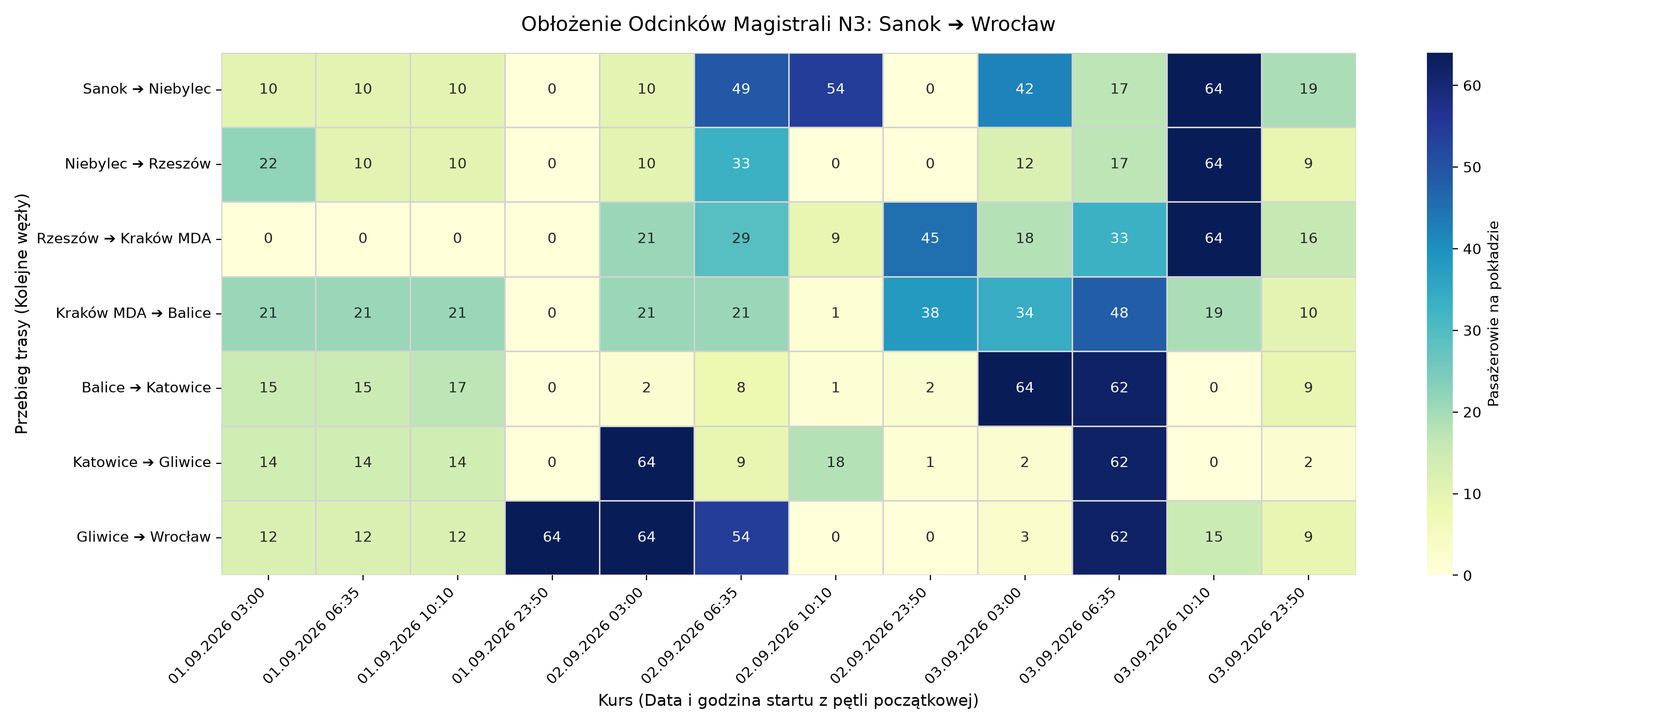
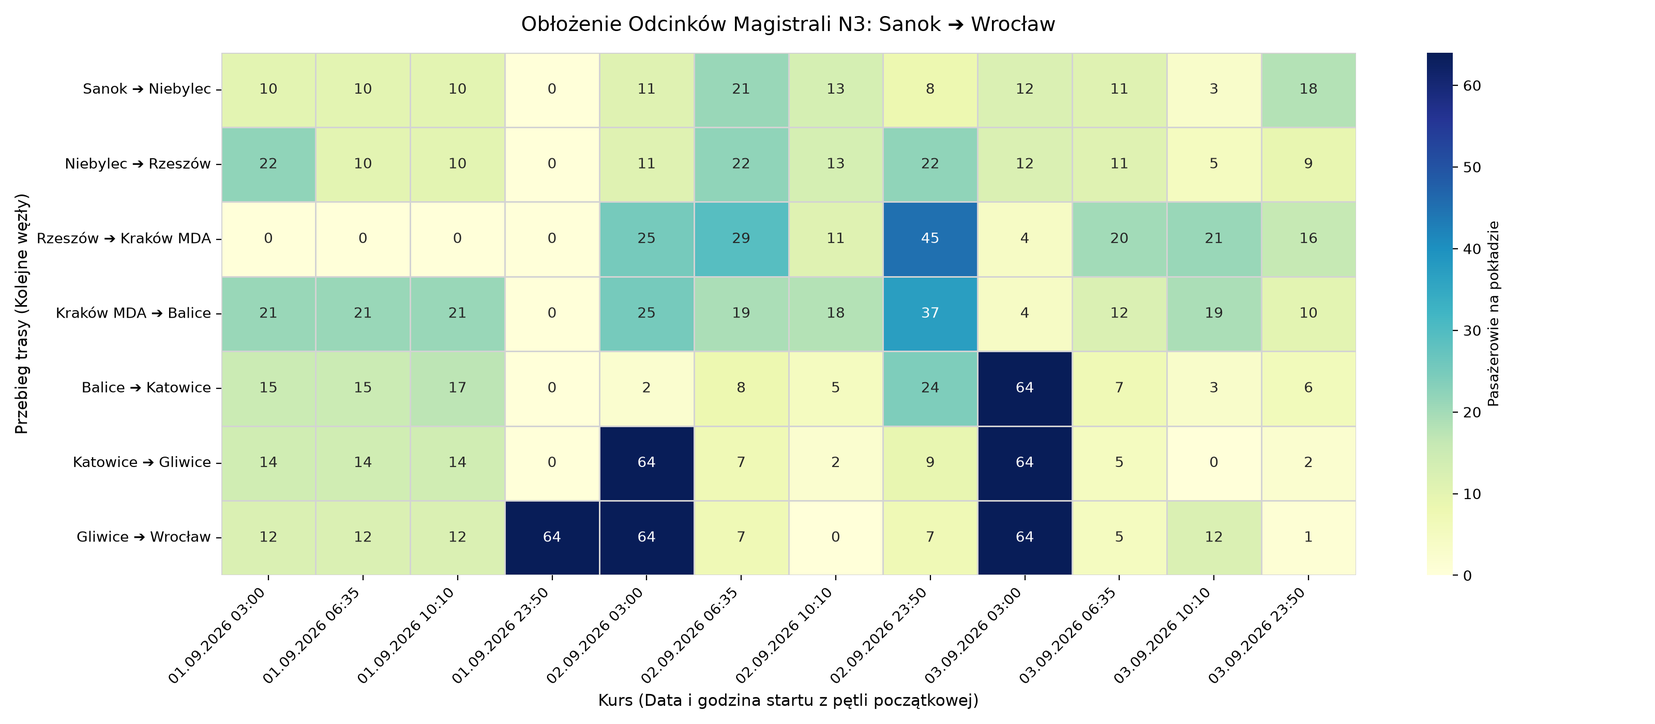
Telemetry Update: 2026-09-01 14:16:03

Changed region(s): [[0.3438, 0.0614, 0.7812, 0.7986], [0.75, 0.6757, 0.8438, 0.7986]]

diff --git a/README.md b/README.md
@@ -1,6 +1,6 @@
 # 🏛 Project Aether: N3 Transit Observatory
 
-> 🕒 **Ostatnia synchronizacja:** `01.09.2026 13:16:50`  
+> 🕒 **Ostatnia synchronizacja:** `01.09.2026 14:16:00`  
 > 📊 **Status magistrali N3 (Sanok ⇄ Wrocław)** | 8 Węzłów | 7 Odcinków Pomiarowych
 
 ## 🧭 Bezpośrednie kursy magistralne (Terminus ➔ Terminus)
@@ -8,7 +8,6 @@
 | Kierunek | Data | Odjazd | Wolne miejsca | Cena min. |
 | :--- | :--- | :---: | :---: | :---: |
 | Sanok ➔ Wrocław | 📅 **01.09.2026** | ⏰ 23:50 | `B/D` | 120.65 zł |
-| Wrocław ➔ Sanok | 📅 **01.09.2026** | ⏰ 15:35 | `B/D` | 120.65 zł |
 | Wrocław ➔ Sanok | 📅 **01.09.2026** | ⏰ 22:25 | `B/D` | 120.65 zł |
 | Sanok ➔ Wrocław | 📅 **02.09.2026** | ⏰ 03:00 | `B/D` | 120.65 zł |
 | Sanok ➔ Wrocław | 📅 **02.09.2026** | ⏰ 06:35 | `B/D` | 120.65 zł |
@@ -27,75 +26,128 @@
 | Wrocław ➔ Sanok | 📅 **03.09.2026** | ⏰ 15:35 | `B/D` | 120.65 zł |
 | Wrocław ➔ Sanok | 📅 **03.09.2026** | ⏰ 22:25 | `B/D` | 120.65 zł |
 | Sanok ➔ Wrocław | 📅 **04.09.2026** | ⏰ 03:00 | `B/D` | 120.65 zł |
+| Sanok ➔ Wrocław | 📅 **04.09.2026** | ⏰ 06:35 | `B/D` | 120.65 zł |
 
 ---
 
 ## 📈 Analityka Węzłowa: Potoki, Wymiana Pasażerska (Δ) i Estymacja Obrotów
 
-### 🚌 Sanok ➔ Wrocław: `Nocny (23:50)` | 📅 Data: **01.09.2026**
-> 💵 **Szacowany obrót kursu:** `2204.80 PLN` | 📊 **Średni Load Factor:** `14.1%`
+### 🚌 Wrocław ➔ Sanok: `Poranny (07:45)` | 📅 Data: **01.09.2026**
+> 💵 **Szacowany obrót kursu:** `1923.40 PLN` | 📊 **Średni Load Factor:** `8.3%`
 
 | Odcinek | Odjazd | Cena | Wolne | Na pokładzie | Bilans w węźle (Δ) | Obrót odcinka |
 | :--- | :---: | :---: | :---: | :---: | :---: | :---: |
-| Sanok ➔ Niebylec | ⏰ 23:50 | 0.00 zł | `B/D` | **0/65** | Start trasy | **0.00 zł** |
-| Niebylec ➔ Rzeszów | ⏰ 00:50 | 0.00 zł | `B/D` | **0/65** | ➡ 0 | **0.00 zł** |
-| Rzeszów ➔ Kraków MDA | ⏰ 01:30 | 0.00 zł | `B/D` | **0/65** | ➡ 0 | **0.00 zł** |
-| Kraków MDA ➔ Balice | ⏰ 03:35 | 0.00 zł | `B/D` | **0/65** | ➡ 0 | **0.00 zł** |
-| Balice ➔ Katowice | ⏰ 04:00 | 0.00 zł | `B/D` | **0/65** | ➡ 0 | **0.00 zł** |
-| Katowice ➔ Gliwice | ⏰ 04:55 | 0.00 zł | `B/D` | **0/65** | ➡ 0 | **0.00 zł** |
-| Gliwice ➔ Wrocław | ⏰ 05:22 | 34.45 zł | `1` | **64/65** | 📈 +64 | **2204.80 zł** |
+| Wrocław ➔ Gliwice | ⏰ 07:45 | 0.00 zł | `B/D` | **0/65** | Start trasy | **0.00 zł** |
+| Gliwice ➔ Katowice | ⏰ 09:45 | 0.00 zł | `B/D` | **0/65** | ➡ 0 | **0.00 zł** |
+| Katowice ➔ Balice | ⏰ 10:15 | 45.60 zł | `63` | **2/65** | 📈 +2 | **91.20 zł** |
+| Balice ➔ Kraków MDA | ⏰ 11:05 | 27.00 zł | `61` | **4/65** | 📈 +2 | **108.00 zł** |
+| Kraków MDA ➔ Rzeszów | ⏰ 11:45 | 42.40 zł | `32` | **33/65** | 📈 +29 | **1399.20 zł** |
+| Rzeszów ➔ Niebylec | ⏰ 13:50 | 0.00 zł | `B/D` | **0/65** | 📉 -33 | **0.00 zł** |
+| Niebylec ➔ Sanok | ⏰ 14:35 | 25.00 zł | `77` | **13/90** | 📈 +13 | **325.00 zł** |
+
+### 🚌 Wrocław ➔ Sanok: `Południowy (12:00)` | 📅 Data: **01.09.2026**
+> 💵 **Szacowany obrót kursu:** `2654.90 PLN` | 📊 **Średni Load Factor:** `15.1%`
+
+| Odcinek | Odjazd | Cena | Wolne | Na pokładzie | Bilans w węźle (Δ) | Obrót odcinka |
+| :--- | :---: | :---: | :---: | :---: | :---: | :---: |
+| Wrocław ➔ Gliwice | ⏰ 12:00 | 0.00 zł | `B/D` | **0/65** | Start trasy | **0.00 zł** |
+| Gliwice ➔ Katowice | ⏰ 14:00 | 19.95 zł | `66` | **24/90** | 📈 +24 | **478.80 zł** |
+| Katowice ➔ Balice | ⏰ 14:30 | 45.60 zł | `63` | **2/65** | 📉 -22 | **91.20 zł** |
+| Balice ➔ Kraków MDA | ⏰ 15:20 | 27.00 zł | `61` | **4/65** | 📈 +2 | **108.00 zł** |
+| Kraków MDA ➔ Rzeszów | ⏰ 16:15 | 42.40 zł | `32` | **33/65** | 📈 +29 | **1399.20 zł** |
+| Rzeszów ➔ Niebylec | ⏰ 18:40 | 13.30 zł | `71` | **19/90** | 📉 -14 | **252.70 zł** |
+| Niebylec ➔ Sanok | ⏰ 19:20 | 25.00 zł | `77` | **13/90** | 📉 -6 | **325.00 zł** |
+
+### 🚌 Wrocław ➔ Sanok: `Popołudniowy (15:35)` | 📅 Data: **01.09.2026**
+> 💵 **Szacowany obrót kursu:** `2428.15 PLN` | 📊 **Średni Load Factor:** `14.0%`
+
+| Odcinek | Odjazd | Cena | Wolne | Na pokładzie | Bilans w węźle (Δ) | Obrót odcinka |
+| :--- | :---: | :---: | :---: | :---: | :---: | :---: |
+| Wrocław ➔ Gliwice | ⏰ 15:35 | 34.45 zł | `83` | **7/90** | Start trasy | **241.15 zł** |
+| Gliwice ➔ Katowice | ⏰ 17:40 | 19.95 zł | `66` | **24/90** | 📈 +17 | **478.80 zł** |
+| Katowice ➔ Balice | ⏰ 18:15 | 45.60 zł | `63` | **2/65** | 📉 -22 | **91.20 zł** |
+| Balice ➔ Kraków MDA | ⏰ 19:05 | 27.00 zł | `31` | **34/65** | 📈 +32 | **918.00 zł** |
+| Kraków MDA ➔ Rzeszów | ⏰ 19:45 | 42.40 zł | `55` | **10/65** | 📉 -24 | **424.00 zł** |
+| Rzeszów ➔ Niebylec | ⏰ 21:55 | 0.00 zł | `B/D` | **0/65** | 📉 -10 | **0.00 zł** |
+| Niebylec ➔ Sanok | ⏰ 22:30 | 25.00 zł | `54` | **11/65** | 📈 +11 | **275.00 zł** |
+
+### 🚌 Wrocław ➔ Sanok: `Nocny (22:25)` | 📅 Data: **01.09.2026**
+> 💵 **Szacowany obrót kursu:** `2544.95 PLN` | 📊 **Średni Load Factor:** `14.3%`
+
+| Odcinek | Odjazd | Cena | Wolne | Na pokładzie | Bilans w węźle (Δ) | Obrót odcinka |
+| :--- | :---: | :---: | :---: | :---: | :---: | :---: |
+| Wrocław ➔ Gliwice | ⏰ 22:25 | 34.45 zł | `64` | **1/65** | Start trasy | **34.45 zł** |
+| Gliwice ➔ Katowice | ⏰ 00:20 | 19.95 zł | `66` | **24/90** | 📈 +23 | **478.80 zł** |
+| Katowice ➔ Balice | ⏰ 00:50 | 0.00 zł | `B/D` | **0/65** | 📉 -24 | **0.00 zł** |
+| Balice ➔ Kraków MDA | ⏰ 01:50 | 27.00 zł | `61` | **4/65** | 📈 +4 | **108.00 zł** |
+| Kraków MDA ➔ Rzeszów | ⏰ 02:20 | 42.40 zł | `32` | **33/65** | 📈 +29 | **1399.20 zł** |
+| Rzeszów ➔ Niebylec | ⏰ 04:30 | 13.30 zł | `75` | **15/90** | 📉 -18 | **199.50 zł** |
+| Niebylec ➔ Sanok | ⏰ 05:00 | 25.00 zł | `77` | **13/90** | 📉 -2 | **325.00 zł** |
+
+### 🚌 Sanok ➔ Wrocław: `Poranny I (03:00)` | 📅 Data: **02.09.2026**
+> 💵 **Szacowany obrót kursu:** `5660.65 PLN` | 📊 **Średni Load Factor:** `44.4%`
+
+| Odcinek | Odjazd | Cena | Wolne | Na pokładzie | Bilans w węźle (Δ) | Obrót odcinka |
+| :--- | :---: | :---: | :---: | :---: | :---: | :---: |
+| Sanok ➔ Niebylec | ⏰ 03:00 | 23.75 zł | `54` | **11/65** | Start trasy | **261.25 zł** |
+| Niebylec ➔ Rzeszów | ⏰ 04:00 | 14.00 zł | `54` | **11/65** | ➡ 0 | **154.00 zł** |
+| Rzeszów ➔ Kraków MDA | ⏰ 04:40 | 42.40 zł | `40` | **25/65** | 📈 +14 | **1060.00 zł** |
+| Kraków MDA ➔ Balice | ⏰ 06:55 | 27.00 zł | `40` | **25/65** | ➡ 0 | **675.00 zł** |
+| Balice ➔ Katowice | ⏰ 07:20 | 48.00 zł | `63` | **2/65** | 📉 -23 | **96.00 zł** |
+| Katowice ➔ Gliwice | ⏰ 08:30 | 18.90 zł | `1` | **64/65** | 📈 +62 | **1209.60 zł** |
+| Gliwice ➔ Wrocław | ⏰ 09:00 | 34.45 zł | `1` | **64/65** | ➡ 0 | **2204.80 zł** |
 
 ### 🚌 Sanok ➔ Wrocław: `Poranny II (06:35)` | 📅 Data: **02.09.2026**
-> 💵 **Szacowany obrót kursu:** `5836.75 PLN` | 📊 **Średni Load Factor:** `44.6%`
+> 💵 **Szacowany obrót kursu:** `3306.80 PLN` | 📊 **Średni Load Factor:** `24.8%`
 
 | Odcinek | Odjazd | Cena | Wolne | Na pokładzie | Bilans w węźle (Δ) | Obrót odcinka |
 | :--- | :---: | :---: | :---: | :---: | :---: | :---: |
-| Sanok ➔ Niebylec | ⏰ 06:35 | 23.75 zł | `16` | **49/65** | Start trasy | **1163.75 zł** |
-| Niebylec ➔ Rzeszów | ⏰ 07:40 | 14.00 zł | `32` | **33/65** | 📉 -16 | **462.00 zł** |
-| Rzeszów ➔ Kraków MDA | ⏰ 08:40 | 42.40 zł | `36` | **29/65** | 📉 -4 | **1229.60 zł** |
-| Kraków MDA ➔ Balice | ⏰ 10:55 | 27.00 zł | `44` | **21/65** | 📉 -8 | **567.00 zł** |
-| Balice ➔ Katowice | ⏰ 11:30 | 48.00 zł | `57` | **8/65** | 📉 -13 | **384.00 zł** |
-| Katowice ➔ Gliwice | ⏰ 12:30 | 18.90 zł | `56` | **9/65** | 📈 +1 | **170.10 zł** |
-| Gliwice ➔ Wrocław | ⏰ 13:00 | 34.45 zł | `11` | **54/65** | 📈 +45 | **1860.30 zł** |
+| Sanok ➔ Niebylec | ⏰ 06:35 | 23.75 zł | `44` | **21/65** | Start trasy | **498.75 zł** |
+| Niebylec ➔ Rzeszów | ⏰ 07:40 | 14.00 zł | `43` | **22/65** | 📈 +1 | **308.00 zł** |
+| Rzeszów ➔ Kraków MDA | ⏰ 08:40 | 42.40 zł | `36` | **29/65** | 📈 +7 | **1229.60 zł** |
+| Kraków MDA ➔ Balice | ⏰ 10:55 | 27.00 zł | `46` | **19/65** | 📉 -10 | **513.00 zł** |
+| Balice ➔ Katowice | ⏰ 11:30 | 48.00 zł | `57` | **8/65** | 📉 -11 | **384.00 zł** |
+| Katowice ➔ Gliwice | ⏰ 12:30 | 18.90 zł | `58` | **7/65** | 📉 -1 | **132.30 zł** |
+| Gliwice ➔ Wrocław | ⏰ 13:00 | 34.45 zł | `58` | **7/65** | ➡ 0 | **241.15 zł** |
 
 ### 🚌 Wrocław ➔ Sanok: `Poranny (07:45)` | 📅 Data: **02.09.2026**
-> 💵 **Szacowany obrót kursu:** `1693.90 PLN` | 📊 **Średni Load Factor:** `9.0%`
+> 💵 **Szacowany obrót kursu:** `2337.75 PLN` | 📊 **Średni Load Factor:** `11.4%`
 
 | Odcinek | Odjazd | Cena | Wolne | Na pokładzie | Bilans w węźle (Δ) | Obrót odcinka |
 | :--- | :---: | :---: | :---: | :---: | :---: | :---: |
-| Wrocław ➔ Gliwice | ⏰ 07:45 | 34.45 zł | `64` | **1/65** | Start trasy | **34.45 zł** |
-| Gliwice ➔ Katowice | ⏰ 09:45 | 19.95 zł | `64` | **1/65** | ➡ 0 | **19.95 zł** |
-| Katowice ➔ Balice | ⏰ 10:15 | 45.60 zł | `64` | **1/65** | ➡ 0 | **45.60 zł** |
-| Balice ➔ Kraków MDA | ⏰ 11:05 | 27.00 zł | `72` | **18/90** | 📈 +17 | **486.00 zł** |
+| Wrocław ➔ Gliwice | ⏰ 07:45 | 34.45 zł | `90` | **0/90** | Start trasy | **0.00 zł** |
+| Gliwice ➔ Katowice | ⏰ 09:45 | 19.95 zł | `87` | **3/90** | 📈 +3 | **59.85 zł** |
+| Katowice ➔ Balice | ⏰ 10:15 | 45.60 zł | `75` | **15/90** | 📈 +12 | **684.00 zł** |
+| Balice ➔ Kraków MDA | ⏰ 11:05 | 27.00 zł | `72` | **18/90** | 📈 +3 | **486.00 zł** |
 | Kraków MDA ➔ Rzeszów | ⏰ 11:45 | 42.40 zł | `72` | **18/90** | ➡ 0 | **763.20 zł** |
 | Rzeszów ➔ Niebylec | ⏰ 13:50 | 13.30 zł | `56` | **9/65** | 📉 -9 | **119.70 zł** |
 | Niebylec ➔ Sanok | ⏰ 14:35 | 25.00 zł | `56` | **9/65** | ➡ 0 | **225.00 zł** |
 
 ### 🚌 Sanok ➔ Wrocław: `Południowy (10:10)` | 📅 Data: **02.09.2026**
-> 💵 **Szacowany obrót kursu:** `2079.30 PLN` | 📊 **Średni Load Factor:** `13.2%`
+> 💵 **Szacowany obrót kursu:** `1720.95 PLN` | 📊 **Średni Load Factor:** `9.8%`
 
 | Odcinek | Odjazd | Cena | Wolne | Na pokładzie | Bilans w węźle (Δ) | Obrót odcinka |
 | :--- | :---: | :---: | :---: | :---: | :---: | :---: |
-| Sanok ➔ Niebylec | ⏰ 10:10 | 23.75 zł | `11` | **54/65** | Start trasy | **1282.50 zł** |
-| Niebylec ➔ Rzeszów | ⏰ 11:25 | 0.00 zł | `B/D` | **0/65** | 📉 -54 | **0.00 zł** |
-| Rzeszów ➔ Kraków MDA | ⏰ 12:20 | 42.40 zł | `56` | **9/65** | 📈 +9 | **381.60 zł** |
-| Kraków MDA ➔ Balice | ⏰ 14:40 | 27.00 zł | `64` | **1/65** | 📉 -8 | **27.00 zł** |
-| Balice ➔ Katowice | ⏰ 15:15 | 48.00 zł | `64` | **1/65** | ➡ 0 | **48.00 zł** |
-| Katowice ➔ Gliwice | ⏰ 16:25 | 18.90 zł | `47` | **18/65** | 📈 +17 | **340.20 zł** |
-| Gliwice ➔ Wrocław | ⏰ 16:55 | 34.45 zł | `90` | **0/90** | 📉 -18 | **0.00 zł** |
+| Sanok ➔ Niebylec | ⏰ 10:10 | 23.75 zł | `52` | **13/65** | Start trasy | **308.75 zł** |
+| Niebylec ➔ Rzeszów | ⏰ 11:25 | 14.00 zł | `52` | **13/65** | ➡ 0 | **182.00 zł** |
+| Rzeszów ➔ Kraków MDA | ⏰ 12:20 | 42.40 zł | `54` | **11/65** | 📉 -2 | **466.40 zł** |
+| Kraków MDA ➔ Balice | ⏰ 14:40 | 27.00 zł | `72` | **18/90** | 📈 +7 | **486.00 zł** |
+| Balice ➔ Katowice | ⏰ 15:15 | 48.00 zł | `85` | **5/90** | 📉 -13 | **240.00 zł** |
+| Katowice ➔ Gliwice | ⏰ 16:25 | 18.90 zł | `88` | **2/90** | 📉 -3 | **37.80 zł** |
+| Gliwice ➔ Wrocław | ⏰ 16:55 | 34.45 zł | `90` | **0/90** | 📉 -2 | **0.00 zł** |
 
 ### 🚌 Wrocław ➔ Sanok: `Południowy (12:00)` | 📅 Data: **02.09.2026**
-> 💵 **Szacowany obrót kursu:** `3975.50 PLN` | 📊 **Średni Load Factor:** `24.4%`
+> 💵 **Szacowany obrót kursu:** `3944.40 PLN` | 📊 **Średni Load Factor:** `24.4%`
 
 | Odcinek | Odjazd | Cena | Wolne | Na pokładzie | Bilans w węźle (Δ) | Obrót odcinka |
 | :--- | :---: | :---: | :---: | :---: | :---: | :---: |
 | Wrocław ➔ Gliwice | ⏰ 12:00 | 34.45 zł | `66` | **24/90** | Start trasy | **826.80 zł** |
 | Gliwice ➔ Katowice | ⏰ 14:00 | 19.95 zł | `1` | **64/65** | 📈 +40 | **1276.80 zł** |
 | Katowice ➔ Balice | ⏰ 14:30 | 45.60 zł | `60` | **5/65** | 📉 -59 | **228.00 zł** |
-| Balice ➔ Kraków MDA | ⏰ 15:20 | 27.00 zł | `54` | **11/65** | 📈 +6 | **297.00 zł** |
-| Kraków MDA ➔ Rzeszów | ⏰ 16:15 | 42.40 zł | `48` | **17/65** | 📈 +6 | **720.80 zł** |
-| Rzeszów ➔ Niebylec | ⏰ 18:40 | 13.30 zł | `48` | **17/65** | ➡ 0 | **226.10 zł** |
-| Niebylec ➔ Sanok | ⏰ 19:20 | 25.00 zł | `49` | **16/65** | 📉 -1 | **400.00 zł** |
+| Balice ➔ Kraków MDA | ⏰ 15:20 | 27.00 zł | `55` | **10/65** | 📈 +5 | **270.00 zł** |
+| Kraków MDA ➔ Rzeszów | ⏰ 16:15 | 42.40 zł | `49` | **16/65** | 📈 +6 | **678.40 zł** |
+| Rzeszów ➔ Niebylec | ⏰ 18:40 | 13.30 zł | `47` | **18/65** | 📈 +2 | **239.40 zł** |
+| Niebylec ➔ Sanok | ⏰ 19:20 | 25.00 zł | `48` | **17/65** | 📉 -1 | **425.00 zł** |
 
 ### 🚌 Wrocław ➔ Sanok: `Popołudniowy (15:35)` | 📅 Data: **02.09.2026**
 > 💵 **Szacowany obrót kursu:** `2250.25 PLN` | 📊 **Średni Load Factor:** `16.7%`
@@ -111,108 +163,121 @@
 | Niebylec ➔ Sanok | ⏰ 22:30 | 25.00 zł | `54` | **11/65** | ➡ 0 | **275.00 zł** |
 
 ### 🚌 Wrocław ➔ Sanok: `Nocny (22:25)` | 📅 Data: **02.09.2026**
-> 💵 **Szacowany obrót kursu:** `2040.65 PLN` | 📊 **Średni Load Factor:** `12.4%`
+> 💵 **Szacowany obrót kursu:** `2110.05 PLN` | 📊 **Średni Load Factor:** `12.7%`
 
 | Odcinek | Odjazd | Cena | Wolne | Na pokładzie | Bilans w węźle (Δ) | Obrót odcinka |
 | :--- | :---: | :---: | :---: | :---: | :---: | :---: |
 | Wrocław ➔ Gliwice | ⏰ 22:25 | 34.45 zł | `82` | **8/90** | Start trasy | **275.60 zł** |
 | Gliwice ➔ Katowice | ⏰ 00:20 | 19.95 zł | `81` | **9/90** | 📈 +1 | **179.55 zł** |
 | Katowice ➔ Balice | ⏰ 00:50 | 45.60 zł | `80` | **10/90** | 📈 +1 | **456.00 zł** |
-| Balice ➔ Kraków MDA | ⏰ 01:50 | 27.00 zł | `69` | **21/90** | 📈 +11 | **567.00 zł** |
-| Kraków MDA ➔ Rzeszów | ⏰ 02:20 | 42.40 zł | `63` | **2/65** | 📉 -19 | **84.80 zł** |
-| Rzeszów ➔ Niebylec | ⏰ 04:30 | 13.30 zł | `46` | **19/65** | 📈 +17 | **252.70 zł** |
+| Balice ➔ Kraków MDA | ⏰ 01:50 | 27.00 zł | `68` | **22/90** | 📈 +12 | **594.00 zł** |
+| Kraków MDA ➔ Rzeszów | ⏰ 02:20 | 42.40 zł | `62` | **3/65** | 📉 -19 | **127.20 zł** |
+| Rzeszów ➔ Niebylec | ⏰ 04:30 | 13.30 zł | `46` | **19/65** | 📈 +16 | **252.70 zł** |
 | Niebylec ➔ Sanok | ⏰ 05:00 | 25.00 zł | `56` | **9/65** | 📉 -10 | **225.00 zł** |
 
 ### 🚌 Sanok ➔ Wrocław: `Nocny (23:50)` | 📅 Data: **02.09.2026**
-> 💵 **Szacowany obrót kursu:** `3048.90 PLN` | 📊 **Średni Load Factor:** `18.9%`
+> 💵 **Szacowany obrót kursu:** `4968.25 PLN` | 📊 **Średni Load Factor:** `24.1%`
 
 | Odcinek | Odjazd | Cena | Wolne | Na pokładzie | Bilans w węźle (Δ) | Obrót odcinka |
 | :--- | :---: | :---: | :---: | :---: | :---: | :---: |
-| Sanok ➔ Niebylec | ⏰ 23:50 | 0.00 zł | `B/D` | **0/65** | Start trasy | **0.00 zł** |
-| Niebylec ➔ Rzeszów | ⏰ 00:50 | 0.00 zł | `B/D` | **0/65** | ➡ 0 | **0.00 zł** |
-| Rzeszów ➔ Kraków MDA | ⏰ 01:30 | 42.40 zł | `20` | **45/65** | 📈 +45 | **1908.00 zł** |
-| Kraków MDA ➔ Balice | ⏰ 03:35 | 27.00 zł | `27` | **38/65** | 📉 -7 | **1026.00 zł** |
-| Balice ➔ Katowice | ⏰ 04:00 | 48.00 zł | `63` | **2/65** | 📉 -36 | **96.00 zł** |
-| Katowice ➔ Gliwice | ⏰ 04:55 | 18.90 zł | `64` | **1/65** | 📉 -1 | **18.90 zł** |
-| Gliwice ➔ Wrocław | ⏰ 05:22 | 0.00 zł | `B/D` | **0/65** | 📉 -1 | **0.00 zł** |
+| Sanok ➔ Niebylec | ⏰ 23:50 | 23.75 zł | `57` | **8/65** | Start trasy | **190.00 zł** |
+| Niebylec ➔ Rzeszów | ⏰ 00:50 | 14.00 zł | `43` | **22/65** | 📈 +14 | **308.00 zł** |
+| Rzeszów ➔ Kraków MDA | ⏰ 01:30 | 42.40 zł | `20` | **45/65** | 📈 +23 | **1908.00 zł** |
+| Kraków MDA ➔ Balice | ⏰ 03:35 | 27.00 zł | `28` | **37/65** | 📉 -8 | **999.00 zł** |
+| Balice ➔ Katowice | ⏰ 04:00 | 48.00 zł | `66` | **24/90** | 📉 -13 | **1152.00 zł** |
+| Katowice ➔ Gliwice | ⏰ 04:55 | 18.90 zł | `81` | **9/90** | 📉 -15 | **170.10 zł** |
+| Gliwice ➔ Wrocław | ⏰ 05:22 | 34.45 zł | `83` | **7/90** | 📉 -2 | **241.15 zł** |
 
 ### 🚌 Sanok ➔ Wrocław: `Poranny I (03:00)` | 📅 Data: **03.09.2026**
-> 💵 **Szacowany obrót kursu:** `6059.85 PLN` | 📊 **Średni Load Factor:** `38.5%`
+> 💵 **Szacowany obrót kursu:** `7217.00 PLN` | 📊 **Średni Load Factor:** `49.2%`
 
 | Odcinek | Odjazd | Cena | Wolne | Na pokładzie | Bilans w węźle (Δ) | Obrót odcinka |
 | :--- | :---: | :---: | :---: | :---: | :---: | :---: |
-| Sanok ➔ Niebylec | ⏰ 03:00 | 23.75 zł | `23` | **42/65** | Start trasy | **997.50 zł** |
-| Niebylec ➔ Rzeszów | ⏰ 04:00 | 14.00 zł | `53` | **12/65** | 📉 -30 | **168.00 zł** |
-| Rzeszów ➔ Kraków MDA | ⏰ 04:40 | 42.40 zł | `47` | **18/65** | 📈 +6 | **763.20 zł** |
-| Kraków MDA ➔ Balice | ⏰ 06:55 | 27.00 zł | `31` | **34/65** | 📈 +16 | **918.00 zł** |
-| Balice ➔ Katowice | ⏰ 07:20 | 48.00 zł | `1` | **64/65** | 📈 +30 | **3072.00 zł** |
-| Katowice ➔ Gliwice | ⏰ 08:30 | 18.90 zł | `63` | **2/65** | 📉 -62 | **37.80 zł** |
-| Gliwice ➔ Wrocław | ⏰ 09:00 | 34.45 zł | `62` | **3/65** | 📈 +1 | **103.35 zł** |
+| Sanok ➔ Niebylec | ⏰ 03:00 | 23.75 zł | `53` | **12/65** | Start trasy | **285.00 zł** |
+| Niebylec ➔ Rzeszów | ⏰ 04:00 | 14.00 zł | `53` | **12/65** | ➡ 0 | **168.00 zł** |
+| Rzeszów ➔ Kraków MDA | ⏰ 04:40 | 42.40 zł | `61` | **4/65** | 📉 -8 | **169.60 zł** |
+| Kraków MDA ➔ Balice | ⏰ 06:55 | 27.00 zł | `61` | **4/65** | ➡ 0 | **108.00 zł** |
+| Balice ➔ Katowice | ⏰ 07:20 | 48.00 zł | `1` | **64/65** | 📈 +60 | **3072.00 zł** |
+| Katowice ➔ Gliwice | ⏰ 08:30 | 18.90 zł | `1` | **64/65** | ➡ 0 | **1209.60 zł** |
+| Gliwice ➔ Wrocław | ⏰ 09:00 | 34.45 zł | `1` | **64/65** | ➡ 0 | **2204.80 zł** |
 
 ### 🚌 Sanok ➔ Wrocław: `Poranny II (06:35)` | 📅 Data: **03.09.2026**
-> 💵 **Szacowany obrót kursu:** `9620.65 PLN` | 📊 **Średni Load Factor:** `66.2%`
+> 💵 **Szacowany obrót kursu:** `2190.00 PLN` | 📊 **Średni Load Factor:** `15.6%`
 
 | Odcinek | Odjazd | Cena | Wolne | Na pokładzie | Bilans w węźle (Δ) | Obrót odcinka |
 | :--- | :---: | :---: | :---: | :---: | :---: | :---: |
-| Sanok ➔ Niebylec | ⏰ 06:35 | 23.75 zł | `48` | **17/65** | Start trasy | **403.75 zł** |
-| Niebylec ➔ Rzeszów | ⏰ 07:40 | 14.00 zł | `48` | **17/65** | ➡ 0 | **238.00 zł** |
-| Rzeszów ➔ Kraków MDA | ⏰ 08:40 | 42.40 zł | `32` | **33/65** | 📈 +16 | **1399.20 zł** |
-| Kraków MDA ➔ Balice | ⏰ 10:55 | 27.00 zł | `17` | **48/65** | 📈 +15 | **1296.00 zł** |
-| Balice ➔ Katowice | ⏰ 11:30 | 48.00 zł | `3` | **62/65** | 📈 +14 | **2976.00 zł** |
-| Katowice ➔ Gliwice | ⏰ 12:30 | 18.90 zł | `3` | **62/65** | ➡ 0 | **1171.80 zł** |
-| Gliwice ➔ Wrocław | ⏰ 13:00 | 34.45 zł | `3` | **62/65** | ➡ 0 | **2135.90 zł** |
+| Sanok ➔ Niebylec | ⏰ 06:35 | 23.75 zł | `54` | **11/65** | Start trasy | **261.25 zł** |
+| Niebylec ➔ Rzeszów | ⏰ 07:40 | 14.00 zł | `54` | **11/65** | ➡ 0 | **154.00 zł** |
+| Rzeszów ➔ Kraków MDA | ⏰ 08:40 | 42.40 zł | `45` | **20/65** | 📈 +9 | **848.00 zł** |
+| Kraków MDA ➔ Balice | ⏰ 10:55 | 27.00 zł | `53` | **12/65** | 📉 -8 | **324.00 zł** |
+| Balice ➔ Katowice | ⏰ 11:30 | 48.00 zł | `58` | **7/65** | 📉 -5 | **336.00 zł** |
+| Katowice ➔ Gliwice | ⏰ 12:30 | 18.90 zł | `60` | **5/65** | 📉 -2 | **94.50 zł** |
+| Gliwice ➔ Wrocław | ⏰ 13:00 | 34.45 zł | `60` | **5/65** | ➡ 0 | **172.25 zł** |
+
+### 🚌 Wrocław ➔ Sanok: `Poranny (07:45)` | 📅 Data: **03.09.2026**
+> 💵 **Szacowany obrót kursu:** `6958.80 PLN` | 📊 **Średni Load Factor:** `47.5%`
+
+| Odcinek | Odjazd | Cena | Wolne | Na pokładzie | Bilans w węźle (Δ) | Obrót odcinka |
+| :--- | :---: | :---: | :---: | :---: | :---: | :---: |
+| Wrocław ➔ Gliwice | ⏰ 07:45 | 34.45 zł | `1` | **64/65** | Start trasy | **2204.80 zł** |
+| Gliwice ➔ Katowice | ⏰ 09:45 | 19.95 zł | `1` | **64/65** | ➡ 0 | **1276.80 zł** |
+| Katowice ➔ Balice | ⏰ 10:15 | 45.60 zł | `3` | **62/65** | 📉 -2 | **2827.20 zł** |
+| Balice ➔ Kraków MDA | ⏰ 11:05 | 0.00 zł | `B/D` | **0/65** | 📉 -62 | **0.00 zł** |
+| Kraków MDA ➔ Rzeszów | ⏰ 11:45 | 0.00 zł | `B/D` | **0/65** | ➡ 0 | **0.00 zł** |
+| Rzeszów ➔ Niebylec | ⏰ 13:50 | 0.00 zł | `B/D` | **0/65** | ➡ 0 | **0.00 zł** |
+| Niebylec ➔ Sanok | ⏰ 14:35 | 25.00 zł | `39` | **26/65** | 📈 +26 | **650.00 zł** |
+
+### 🚌 Sanok ➔ Wrocław: `Południowy (10:10)` | 📅 Data: **03.09.2026**
+> 💵 **Szacowany obrót kursu:** `2102.05 PLN` | 📊 **Średni Load Factor:** `10.0%`
+
+| Odcinek | Odjazd | Cena | Wolne | Na pokładzie | Bilans w węźle (Δ) | Obrót odcinka |
+| :--- | :---: | :---: | :---: | :---: | :---: | :---: |
+| Sanok ➔ Niebylec | ⏰ 10:10 | 23.75 zł | `62` | **3/65** | Start trasy | **71.25 zł** |
+| Niebylec ➔ Rzeszów | ⏰ 11:25 | 14.00 zł | `60` | **5/65** | 📈 +2 | **70.00 zł** |
+| Rzeszów ➔ Kraków MDA | ⏰ 12:20 | 42.40 zł | `69` | **21/90** | 📈 +16 | **890.40 zł** |
+| Kraków MDA ➔ Balice | ⏰ 14:40 | 27.00 zł | `71` | **19/90** | 📉 -2 | **513.00 zł** |
+| Balice ➔ Katowice | ⏰ 15:15 | 48.00 zł | `87` | **3/90** | 📉 -16 | **144.00 zł** |
+| Katowice ➔ Gliwice | ⏰ 16:25 | 18.90 zł | `90` | **0/90** | 📉 -3 | **0.00 zł** |
+| Gliwice ➔ Wrocław | ⏰ 16:55 | 34.45 zł | `78` | **12/90** | 📈 +12 | **413.40 zł** |
 
 ### 🚌 Wrocław ➔ Sanok: `Południowy (12:00)` | 📅 Data: **03.09.2026**
-> 💵 **Szacowany obrót kursu:** `684.00 PLN` | 📊 **Średni Load Factor:** `5.7%`
+> 💵 **Szacowany obrót kursu:** `997.50 PLN` | 📊 **Średni Load Factor:** `11.0%`
 
 | Odcinek | Odjazd | Cena | Wolne | Na pokładzie | Bilans w węźle (Δ) | Obrót odcinka |
 | :--- | :---: | :---: | :---: | :---: | :---: | :---: |
 | Wrocław ➔ Gliwice | ⏰ 12:00 | 0.00 zł | `B/D` | **0/65** | Start trasy | **0.00 zł** |
-| Gliwice ➔ Katowice | ⏰ 14:00 | 0.00 zł | `B/D` | **0/65** | ➡ 0 | **0.00 zł** |
-| Katowice ➔ Balice | ⏰ 14:30 | 0.00 zł | `B/D` | **0/65** | ➡ 0 | **0.00 zł** |
-| Balice ➔ Kraków MDA | ⏰ 15:20 | 27.00 zł | `48` | **17/65** | 📈 +17 | **459.00 zł** |
-| Kraków MDA ➔ Rzeszów | ⏰ 16:15 | 0.00 zł | `B/D` | **0/65** | 📉 -17 | **0.00 zł** |
+| Gliwice ➔ Katowice | ⏰ 14:00 | 19.95 zł | `15` | **50/65** | 📈 +50 | **997.50 zł** |
+| Katowice ➔ Balice | ⏰ 14:30 | 0.00 zł | `B/D` | **0/65** | 📉 -50 | **0.00 zł** |
+| Balice ➔ Kraków MDA | ⏰ 15:20 | 0.00 zł | `B/D` | **0/65** | ➡ 0 | **0.00 zł** |
+| Kraków MDA ➔ Rzeszów | ⏰ 16:15 | 0.00 zł | `B/D` | **0/65** | ➡ 0 | **0.00 zł** |
 | Rzeszów ➔ Niebylec | ⏰ 18:40 | 0.00 zł | `B/D` | **0/65** | ➡ 0 | **0.00 zł** |
-| Niebylec ➔ Sanok | ⏰ 19:20 | 25.00 zł | `56` | **9/65** | 📈 +9 | **225.00 zł** |
-
-### 🚌 Wrocław ➔ Sanok: `Popołudniowy (15:35)` | 📅 Data: **03.09.2026**
-> 💵 **Szacowany obrót kursu:** `2246.35 PLN` | 📊 **Średni Load Factor:** `19.6%`
-
-| Odcinek | Odjazd | Cena | Wolne | Na pokładzie | Bilans w węźle (Δ) | Obrót odcinka |
-| :--- | :---: | :---: | :---: | :---: | :---: | :---: |
-| Wrocław ➔ Gliwice | ⏰ 15:35 | 34.45 zł | `61` | **4/65** | Start trasy | **137.80 zł** |
-| Gliwice ➔ Katowice | ⏰ 17:40 | 19.95 zł | `60` | **5/65** | 📈 +1 | **99.75 zł** |
-| Katowice ➔ Balice | ⏰ 18:15 | 45.60 zł | `59` | **6/65** | 📈 +1 | **273.60 zł** |
-| Balice ➔ Kraków MDA | ⏰ 19:05 | 27.00 zł | `54` | **11/65** | 📈 +5 | **297.00 zł** |
-| Kraków MDA ➔ Rzeszów | ⏰ 19:45 | 42.40 zł | `50` | **15/65** | 📈 +4 | **636.00 zł** |
-| Rzeszów ➔ Niebylec | ⏰ 21:55 | 13.30 zł | `31` | **34/65** | 📈 +19 | **452.20 zł** |
-| Niebylec ➔ Sanok | ⏰ 22:30 | 25.00 zł | `51` | **14/65** | 📉 -20 | **350.00 zł** |
+| Niebylec ➔ Sanok | ⏰ 19:20 | 0.00 zł | `B/D` | **0/65** | ➡ 0 | **0.00 zł** |
 
 ### 🚌 Wrocław ➔ Sanok: `Nocny (22:25)` | 📅 Data: **03.09.2026**
-> 💵 **Szacowany obrót kursu:** `2688.20 PLN` | 📊 **Średni Load Factor:** `12.4%`
+> 💵 **Szacowany obrót kursu:** `644.00 PLN` | 📊 **Średni Load Factor:** `3.8%`
 
 | Odcinek | Odjazd | Cena | Wolne | Na pokładzie | Bilans w węźle (Δ) | Obrót odcinka |
 | :--- | :---: | :---: | :---: | :---: | :---: | :---: |
-| Wrocław ➔ Gliwice | ⏰ 22:25 | 34.45 zł | `86` | **4/90** | Start trasy | **137.80 zł** |
-| Gliwice ➔ Katowice | ⏰ 00:20 | 19.95 zł | `84` | **6/90** | 📈 +2 | **119.70 zł** |
-| Katowice ➔ Balice | ⏰ 00:50 | 45.60 zł | `74` | **16/90** | 📈 +10 | **729.60 zł** |
-| Balice ➔ Kraków MDA | ⏰ 01:50 | 27.00 zł | `69` | **21/90** | 📈 +5 | **567.00 zł** |
-| Kraków MDA ➔ Rzeszów | ⏰ 02:20 | 42.40 zł | `66` | **24/90** | 📈 +3 | **1017.60 zł** |
-| Rzeszów ➔ Niebylec | ⏰ 04:30 | 13.30 zł | `60` | **5/65** | 📉 -19 | **66.50 zł** |
-| Niebylec ➔ Sanok | ⏰ 05:00 | 25.00 zł | `63` | **2/65** | 📉 -3 | **50.00 zł** |
+| Wrocław ➔ Gliwice | ⏰ 22:25 | 0.00 zł | `B/D` | **0/65** | Start trasy | **0.00 zł** |
+| Gliwice ➔ Katowice | ⏰ 00:20 | 0.00 zł | `B/D` | **0/65** | ➡ 0 | **0.00 zł** |
+| Katowice ➔ Balice | ⏰ 00:50 | 0.00 zł | `B/D` | **0/65** | ➡ 0 | **0.00 zł** |
+| Balice ➔ Kraków MDA | ⏰ 01:50 | 27.00 zł | `68` | **22/90** | 📈 +22 | **594.00 zł** |
+| Kraków MDA ➔ Rzeszów | ⏰ 02:20 | 0.00 zł | `B/D` | **0/65** | 📉 -22 | **0.00 zł** |
+| Rzeszów ➔ Niebylec | ⏰ 04:30 | 0.00 zł | `B/D` | **0/65** | ➡ 0 | **0.00 zł** |
+| Niebylec ➔ Sanok | ⏰ 05:00 | 25.00 zł | `63` | **2/65** | 📈 +2 | **50.00 zł** |
 
 ### 🚌 Sanok ➔ Wrocław: `Nocny (23:50)` | 📅 Data: **03.09.2026**
-> 💵 **Szacowany obrót kursu:** `2305.50 PLN` | 📊 **Średni Load Factor:** `11.7%`
+> 💵 **Szacowany obrót kursu:** `1862.15 PLN` | 📊 **Średni Load Factor:** `9.8%`
 
 | Odcinek | Odjazd | Cena | Wolne | Na pokładzie | Bilans w węźle (Δ) | Obrót odcinka |
 | :--- | :---: | :---: | :---: | :---: | :---: | :---: |
-| Sanok ➔ Niebylec | ⏰ 23:50 | 23.75 zł | `46` | **19/65** | Start trasy | **451.25 zł** |
-| Niebylec ➔ Rzeszów | ⏰ 00:50 | 14.00 zł | `56` | **9/65** | 📉 -10 | **126.00 zł** |
+| Sanok ➔ Niebylec | ⏰ 23:50 | 23.75 zł | `47` | **18/65** | Start trasy | **427.50 zł** |
+| Niebylec ➔ Rzeszów | ⏰ 00:50 | 14.00 zł | `56` | **9/65** | 📉 -9 | **126.00 zł** |
 | Rzeszów ➔ Kraków MDA | ⏰ 01:30 | 42.40 zł | `49` | **16/65** | 📈 +7 | **678.40 zł** |
 | Kraków MDA ➔ Balice | ⏰ 03:35 | 27.00 zł | `55` | **10/65** | 📉 -6 | **270.00 zł** |
-| Balice ➔ Katowice | ⏰ 04:00 | 48.00 zł | `81` | **9/90** | 📉 -1 | **432.00 zł** |
-| Katowice ➔ Gliwice | ⏰ 04:55 | 18.90 zł | `88` | **2/90** | 📉 -7 | **37.80 zł** |
-| Gliwice ➔ Wrocław | ⏰ 05:22 | 34.45 zł | `81` | **9/90** | 📈 +7 | **310.05 zł** |
+| Balice ➔ Katowice | ⏰ 04:00 | 48.00 zł | `84` | **6/90** | 📉 -4 | **288.00 zł** |
+| Katowice ➔ Gliwice | ⏰ 04:55 | 18.90 zł | `88` | **2/90** | 📉 -4 | **37.80 zł** |
+| Gliwice ➔ Wrocław | ⏰ 05:22 | 34.45 zł | `89` | **1/90** | 📉 -1 | **34.45 zł** |
 
 
 ---
